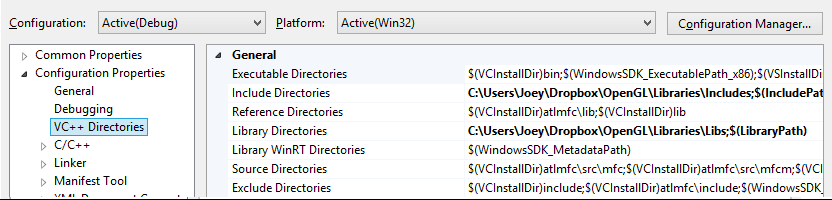
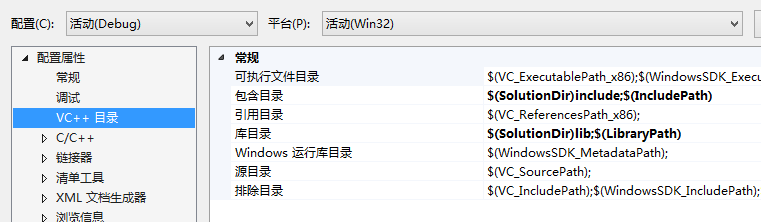
修改图片

diff --git a/source/_posts/LearnOpenGL/配置OpenGL环境.md b/source/_posts/LearnOpenGL/配置OpenGL环境.md
@@ -18,7 +18,7 @@ GLFW可以从它官方网站的[下载页](http://www.glfw.org/download.html)上
 1.找到IDE或者编译器的/lib和/include文件夹，添加GLFW的include文件夹里的文件到IDE的/include文件夹里去。用类似的方法，将glfw3.lib添加到/lib文件夹里去。
 2.推荐的方式是建立一个新的目录包含所有的第三方库文件和头文件，并且在你的IDE或编译器中指定这些文件夹。
 在Virtual Studio中配置:
-1.我们首先进入Project Properties(工程属性，在解决方案窗口里右键项目)，然后选择VC++ Directories(VC++ 目录)选项卡（如下图）。在下面的两栏添加目录：
+1.我们首先进入Project Properties(工程属性，在解决方案窗口里右键项目)，然后选择VC++ Directories(VC++ 目录)选项卡（如下图）。在下面的两栏添加目录：($(SolutionDir):vs工程目录路径)
 ![](1.png)
 2.在Linker(链接器)选项卡里的Input(输入)选项卡里添加glfw3.lib这个文件：
 ![](2.png)
